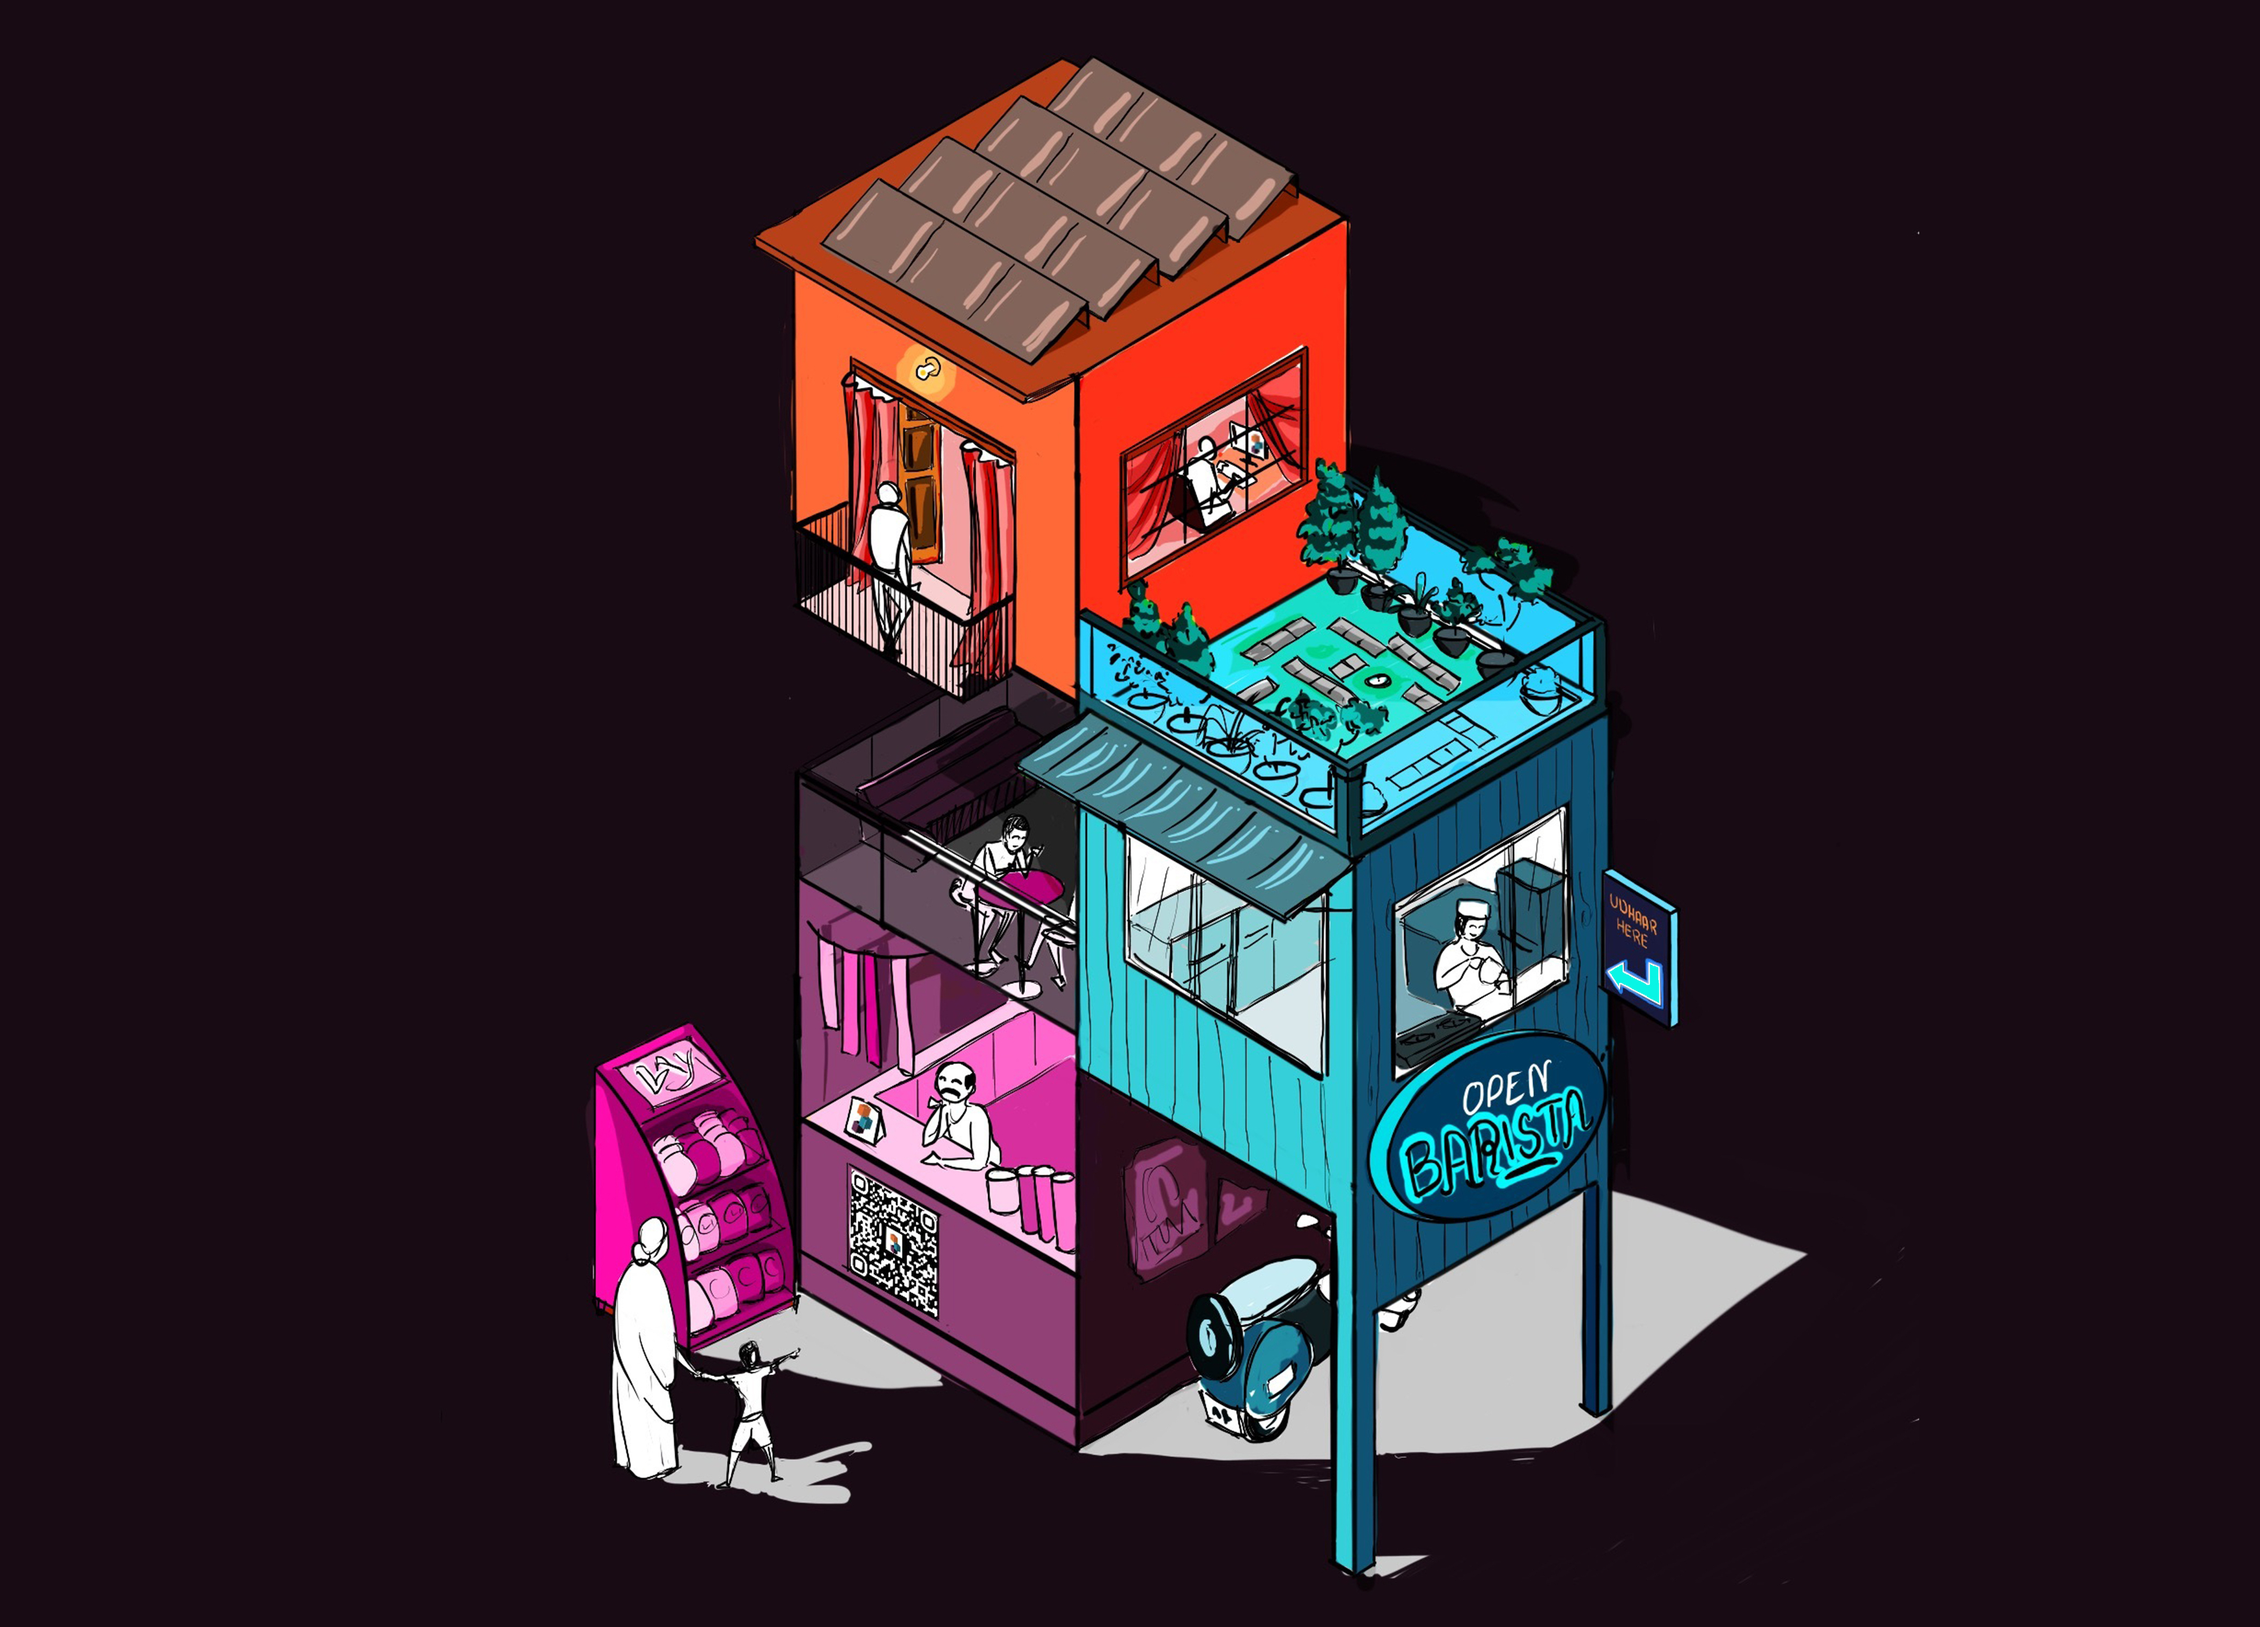
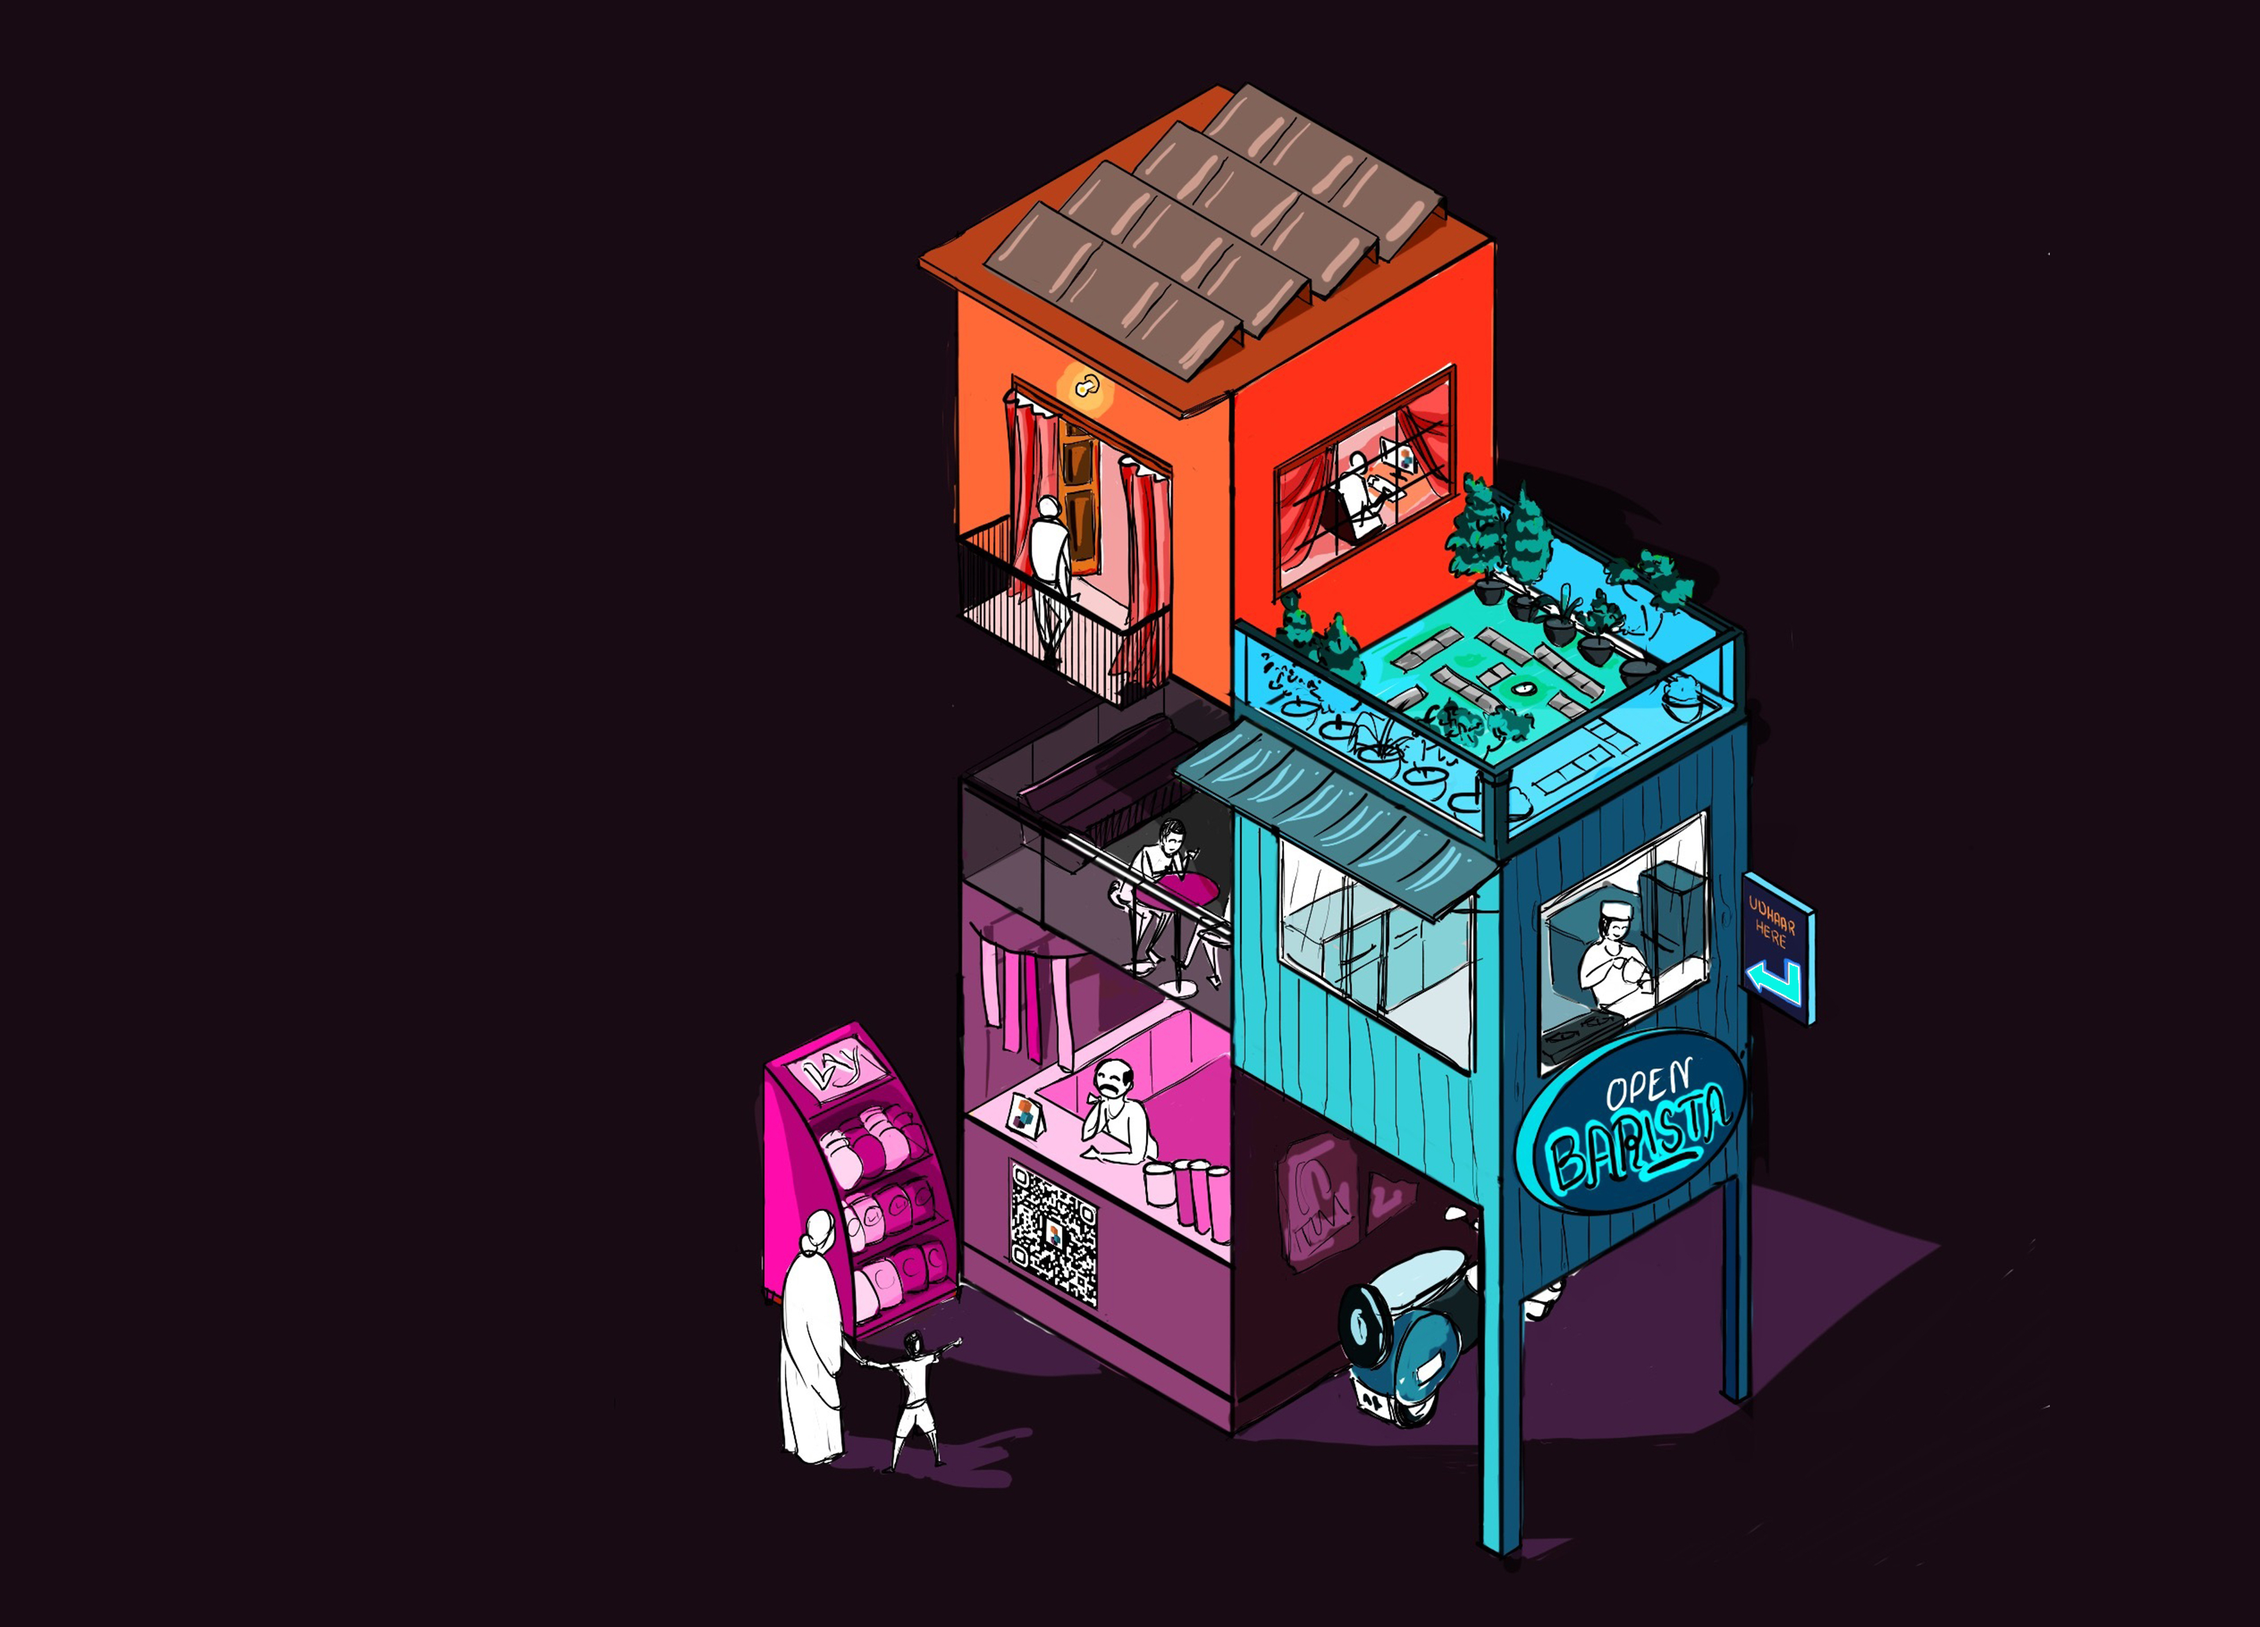
removes unused files, cleans some other gradients

Changed region(s): [[0.25, 0.0312, 0.875, 0.9688]]

diff --git a/careers.html b/careers.html
@@ -119,46 +119,7 @@
         class="column-16 w-col w-col-4 w-col-stack">
         <h1 class="heading-4">open roles</h1>
       </div>
-      <div class="column-24 w-col w-col-8 w-col-stack">
-        <div data-w-id="211d0f29-aa18-4140-fe34-5ee8837c07a4"
-          style="opacity:0;-webkit-transform:translate3d(0, 30px, 0) scale3d(1, 1, 1) rotateX(0) rotateY(0) rotateZ(0) skew(0, 0);-moz-transform:translate3d(0, 30px, 0) scale3d(1, 1, 1) rotateX(0) rotateY(0) rotateZ(0) skew(0, 0);-ms-transform:translate3d(0, 30px, 0) scale3d(1, 1, 1) rotateX(0) rotateY(0) rotateZ(0) skew(0, 0);transform:translate3d(0, 30px, 0) scale3d(1, 1, 1) rotateX(0) rotateY(0) rotateZ(0) skew(0, 0)"
-          class="job-opening-1st"><a href="/open-roles/product-manager" target="_blank"
-            class="link-block-7 w-inline-block">
-            <div class="job-link-2">Senior Product Manager</div>
-            <div class="job-link-arrow-2"><span class="role-arrow-link"><strong class="role-arrow-2"></strong></span>
-            </div>
-          </a></div>
-        <div data-w-id="b0ee0340-61de-681f-b105-938ac1a1e9a9"
-          style="opacity:0;-webkit-transform:translate3d(0, 30px, 0) scale3d(1, 1, 1) rotateX(0) rotateY(0) rotateZ(0) skew(0, 0);-moz-transform:translate3d(0, 30px, 0) scale3d(1, 1, 1) rotateX(0) rotateY(0) rotateZ(0) skew(0, 0);-ms-transform:translate3d(0, 30px, 0) scale3d(1, 1, 1) rotateX(0) rotateY(0) rotateZ(0) skew(0, 0);transform:translate3d(0, 30px, 0) scale3d(1, 1, 1) rotateX(0) rotateY(0) rotateZ(0) skew(0, 0)"
-          class="job-opening"><a href="/open-roles/ios-developer" target="_blank" class="link-block-7 w-inline-block">
-            <div class="job-link-2">iOS Engineer</div>
-            <div class="job-link-arrow-2"><span class="role-arrow-link"><strong class="role-arrow-2"></strong></span>
-            </div>
-          </a></div>
-        <div data-w-id="27f19da5-9930-67e9-75f5-dfa979a2c0fc"
-          style="opacity:0;-webkit-transform:translate3d(0, 30px, 0) scale3d(1, 1, 1) rotateX(0) rotateY(0) rotateZ(0) skew(0, 0);-moz-transform:translate3d(0, 30px, 0) scale3d(1, 1, 1) rotateX(0) rotateY(0) rotateZ(0) skew(0, 0);-ms-transform:translate3d(0, 30px, 0) scale3d(1, 1, 1) rotateX(0) rotateY(0) rotateZ(0) skew(0, 0);transform:translate3d(0, 30px, 0) scale3d(1, 1, 1) rotateX(0) rotateY(0) rotateZ(0) skew(0, 0)"
-          class="job-opening"><a href="/open-roles/frontend-engineer" target="_blank"
-            class="link-block-7 w-inline-block">
-            <div class="job-link-2">Senior Frontend Engineer</div>
-            <div class="job-link-arrow-2"><span class="role-arrow-link"><strong class="role-arrow-2"></strong></span>
-            </div>
-          </a></div>
-        <div data-w-id="46431774-b33f-db7b-a831-a54cce250e4a"
-          style="opacity:0;-webkit-transform:translate3d(0, 30px, 0) scale3d(1, 1, 1) rotateX(0) rotateY(0) rotateZ(0) skew(0, 0);-moz-transform:translate3d(0, 30px, 0) scale3d(1, 1, 1) rotateX(0) rotateY(0) rotateZ(0) skew(0, 0);-ms-transform:translate3d(0, 30px, 0) scale3d(1, 1, 1) rotateX(0) rotateY(0) rotateZ(0) skew(0, 0);transform:translate3d(0, 30px, 0) scale3d(1, 1, 1) rotateX(0) rotateY(0) rotateZ(0) skew(0, 0)"
-          class="job-opening"><a href="/open-roles/cloud-backend-engineer" target="_blank"
-            class="link-block-7 w-inline-block">
-            <div class="job-link-2">NodeJS / Cloud Backend Engineer</div>
-            <div class="job-link-arrow-2"><span class="role-arrow-link"><strong class="role-arrow-2"></strong></span>
-            </div>
-          </a></div>
-        <div data-w-id="242e8fac-7e1a-7a8d-5ff0-2b18afaf0d5a"
-          style="opacity:0;-webkit-transform:translate3d(0, 30px, 0) scale3d(1, 1, 1) rotateX(0) rotateY(0) rotateZ(0) skew(0, 0);-moz-transform:translate3d(0, 30px, 0) scale3d(1, 1, 1) rotateX(0) rotateY(0) rotateZ(0) skew(0, 0);-ms-transform:translate3d(0, 30px, 0) scale3d(1, 1, 1) rotateX(0) rotateY(0) rotateZ(0) skew(0, 0);transform:translate3d(0, 30px, 0) scale3d(1, 1, 1) rotateX(0) rotateY(0) rotateZ(0) skew(0, 0)"
-          class="job-opening"><a href="/open-roles/qa-analyst" target="_blank" class="link-block-7 w-inline-block">
-            <div class="job-link-2">QA Analyst</div>
-            <div class="job-link-arrow-2"><span class="role-arrow-link"><strong class="role-arrow-2"></strong></span>
-            </div>
-          </a></div>
-      </div>
+      <div class="column-24 w-col w-col-8 w-col-stack " id="job-openings"></div>
     </div>
   </div>
   <div data-w-id="dd66bba6-3445-2cde-91d2-53e1aa3ee49f"
@@ -299,9 +260,13 @@
     </script>
 
     <script>
-      fetch("./resources/job_postings.json")
-  .then(response => response.json())
-  .then(json => console.log(json));
+      var job_posting = []
+      fetch('./resources/data/job_posting.json').then(response=>response.json()).then(json => {job_posting = json;for (let i = 0; i < job_posting.length; i++) {
+  var job = '<div data-w-id="job-opening-w-id" style="opacity:1;-webkit-transform:translate3d(0, 30px, 0) scale3d(1, 1, 1) rotateX(0) rotateY(0) rotateZ(0) skew(0, 0);-moz-transform:translate3d(0, 30px, 0) scale3d(1, 1, 1) rotateX(0) rotateY(0) rotateZ(0) skew(0, 0);-ms-transform:translate3d(0, 30px, 0) scale3d(1, 1, 1) rotateX(0) rotateY(0) rotateZ(0) skew(0, 0);transform:translate3d(0, 30px, 0) scale3d(1, 1, 1) rotateX(0) rotateY(0) rotateZ(0) skew(0, 0)" class="job-opening"><a href="'+job_posting[i]["Job Link"]+'" target="_blank" class="link-block-7 w-inline-block"> <div class="job-link-2">'+job_posting[i]["Open Roles"]+'</div> <div class="job-link-arrow-2"><span class="role-arrow-link"><strong class="role-arrow-2"></strong></span> </div> </a></div>'
+$('#job-openings').append(job);
+};});
+
+
     </script>
 </body>
 

diff --git a/index.html b/index.html
@@ -273,7 +273,7 @@
             target="_blank" class="link-block-8 w-inline-block"></a>
           <img src="./resources/092917.svg" loading="lazy" alt="">
         </div> -->
-          <div>
+          <!-- <div>
             <div class="html-embed-13 w-embed">
               <a
                 href="https://www.producthunt.com/posts/play-973589da-1c05-4824-ac54-142fefe8cf67?utm_source=badge-featured&amp;utm_medium=badge&amp;utm_souce=badge-play-973589da-1c05-4824-ac54-142fefe8cf67"
@@ -286,7 +286,7 @@
                   height="40"
               /></a>
             </div>
-          </div>
+          </div> -->
         </div>
       </div>
       <div
@@ -961,7 +961,7 @@
         </div>
       </div>
     </div> -->
-      <div
+      <!-- <div
         data-w-id="ccdd5ef0-7748-84ae-a78e-f919bffec186"
         style="
           opacity: 1;
@@ -1180,9 +1180,9 @@
             </div>
           </div>
         </div>
-      </div>
+      </div> -->
     </div>
-    <div class="user-quotes">
+    <!-- <div class="user-quotes">
       <div class="title-container">
         <div class="header-center-1 small">
           thanks for the continued support!<br />
@@ -1270,7 +1270,7 @@
         </div>
       </div>
       <div class="scroll-trigger"></div>
-    </div>
+    </div> -->
     <div class="download-play wf-section">
       <div class="download-play-content">
         <img

diff --git a/resources/js/main.js b/resources/js/main.js
@@ -16589,13 +16589,13 @@ Webflow.require('ix2').init({
       },
       mediaQueries: ['main', 'medium', 'small', 'tiny'],
       target: {
-        id: '617c5c8ec6079d3abdecac4a|211d0f29-aa18-4140-fe34-5ee8837c07a4',
+        id: '617c5c8ec6079d3abdecac4a|job-opening-w-id',
         appliesTo: 'ELEMENT',
         styleBlockIds: []
       },
       targets: [
         {
-          id: '617c5c8ec6079d3abdecac4a|211d0f29-aa18-4140-fe34-5ee8837c07a4',
+          id: '617c5c8ec6079d3abdecac4a|job-opening-w-id',
           appliesTo: 'ELEMENT',
           styleBlockIds: []
         }

diff --git a/resources/css/main.css b/resources/css/main.css
@@ -10300,20 +10300,7 @@ a {
   -webkit-justify-content: center;
   -ms-flex-pack: center;
   justify-content: center;
-  background-image: -webkit-gradient(
-    linear,
-    left bottom,
-    left top,
-    from(#190b14),
-    color-stop(18%, rgba(0, 0, 0, 0.42)),
-    color-stop(26%, transparent)
-  );
-  background-image: linear-gradient(
-    0deg,
-    #190b14,
-    rgba(0, 0, 0, 0.42) 18%,
-    transparent 26%
-  );
+  
 }
 
 .featured-text {
